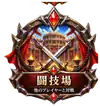
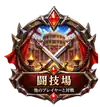
ホーム右の縦列の絵から、隣の絵の切れ端を消す (#414)
ダンジョン・試練の塔の左端に隣の札のリボンの赤、闘技場・試練の塔の上端に
上の札の下端の飾りが写り込んでいた(依頼主の実機)。tools/trimArtFragments.mjs で
上N行・左N列を消し、一番大きな塊だけを残した。

Claude-Session: https://claude.ai/code/session_01LARszmGnHyksgiuAzN7EUi

Changed region(s): [[0.39, 0.0, 0.69, 0.0561]]

diff --git a/src/game/compensation.ts b/src/game/compensation.ts
@@ -57,6 +57,12 @@ export interface Compensation {
 
 export const COMPENSATIONS: Compensation[] = [
   {
+    id: "2026-09-25-home-mode-art-trim",
+    title: "ホームの行き先の絵のはみ出しを直しました",
+    message: "ホーム右側の「ダンジョン」「闘技場」「試練の塔」の絵の縁に、となりの絵の切れ端(赤いリボンや飾りのかけら)が写り込んでいたのを消しました。",
+    kind: "UPDATE", fromDate: "2026-09-25", toDate: "9999-12-31", crystal: 0, gold: 0, summonScrolls: 0,
+  },
+  {
     id: "2026-09-25-accessory-special-growth",
     title: "アクセサリーの強化で、特殊効果が伸びるようになりました",
     message: "アクセサリーを強化した時の伸び方を見直しました。\n\n"
